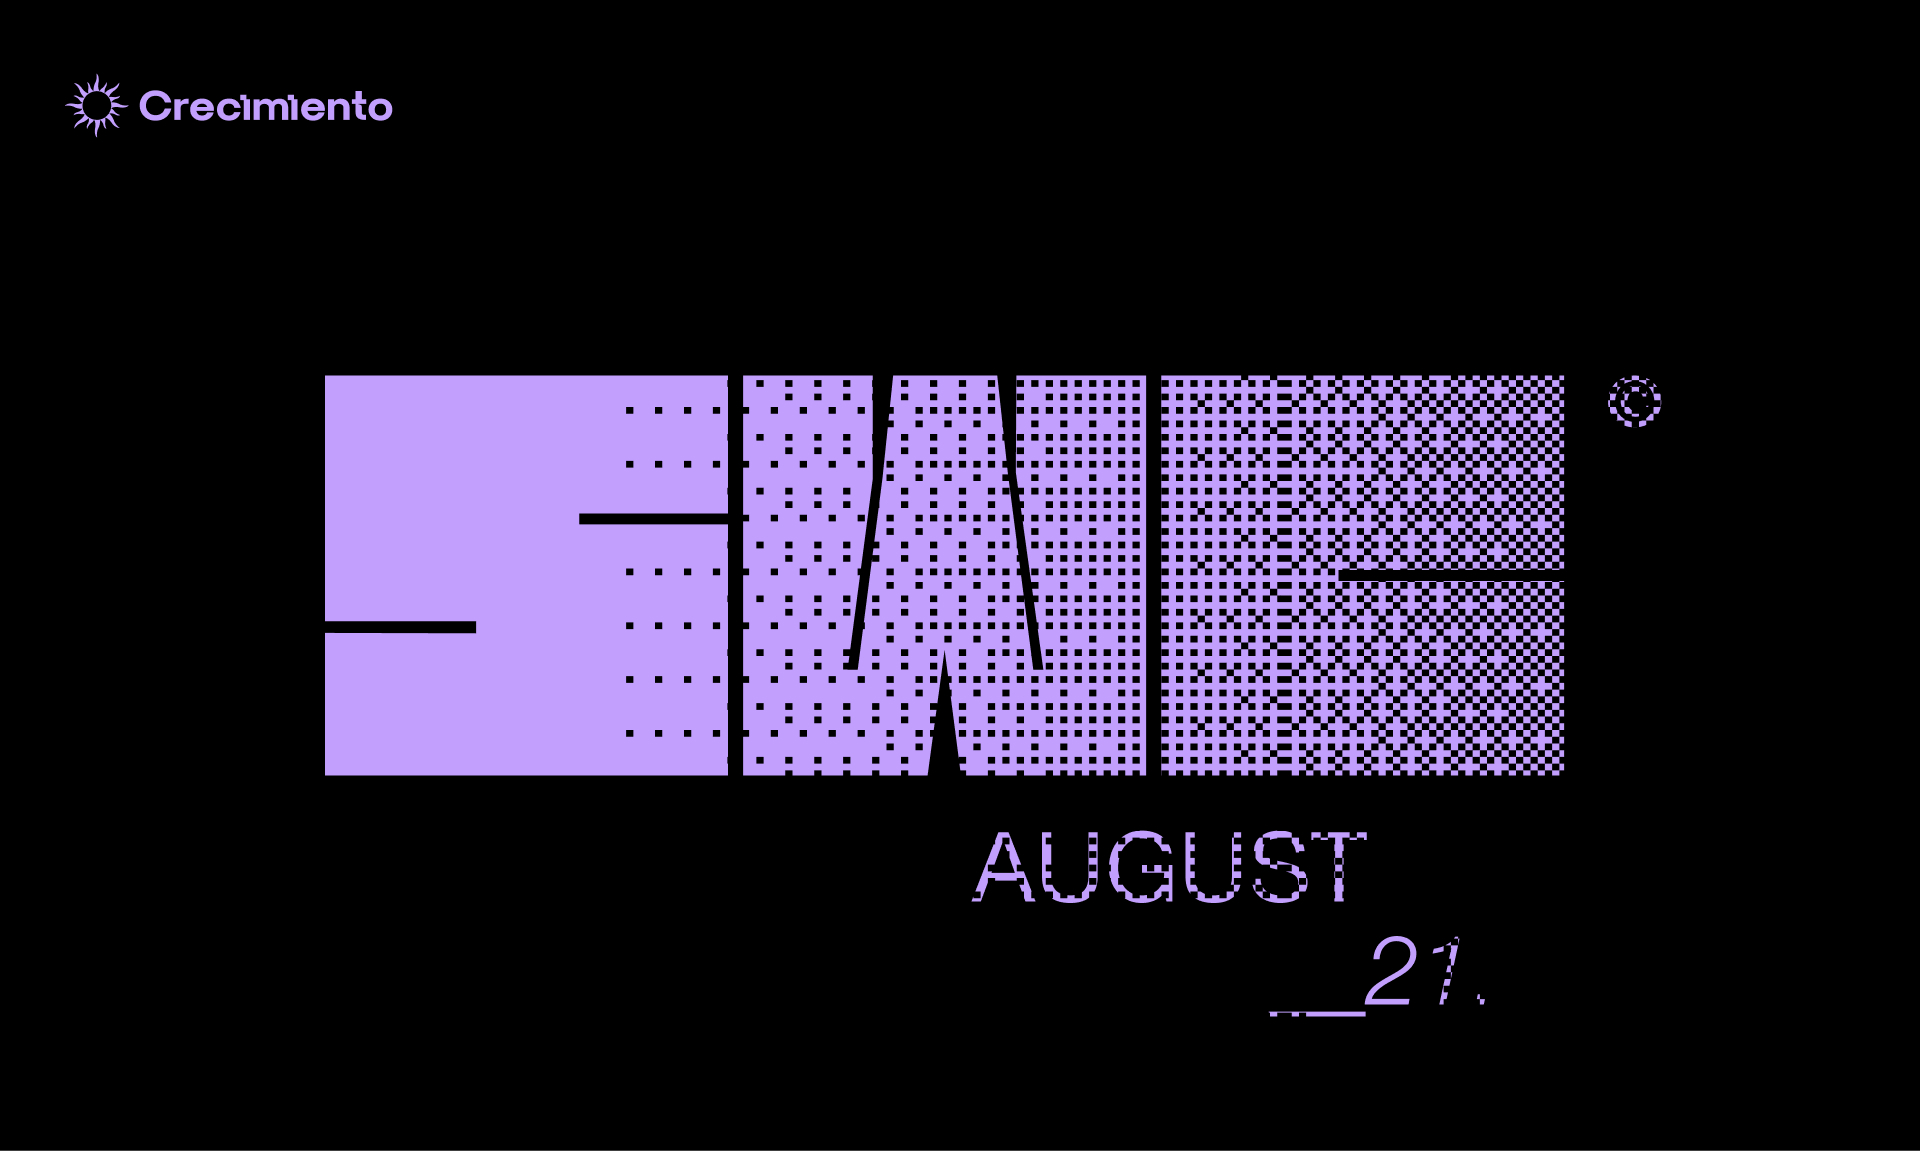
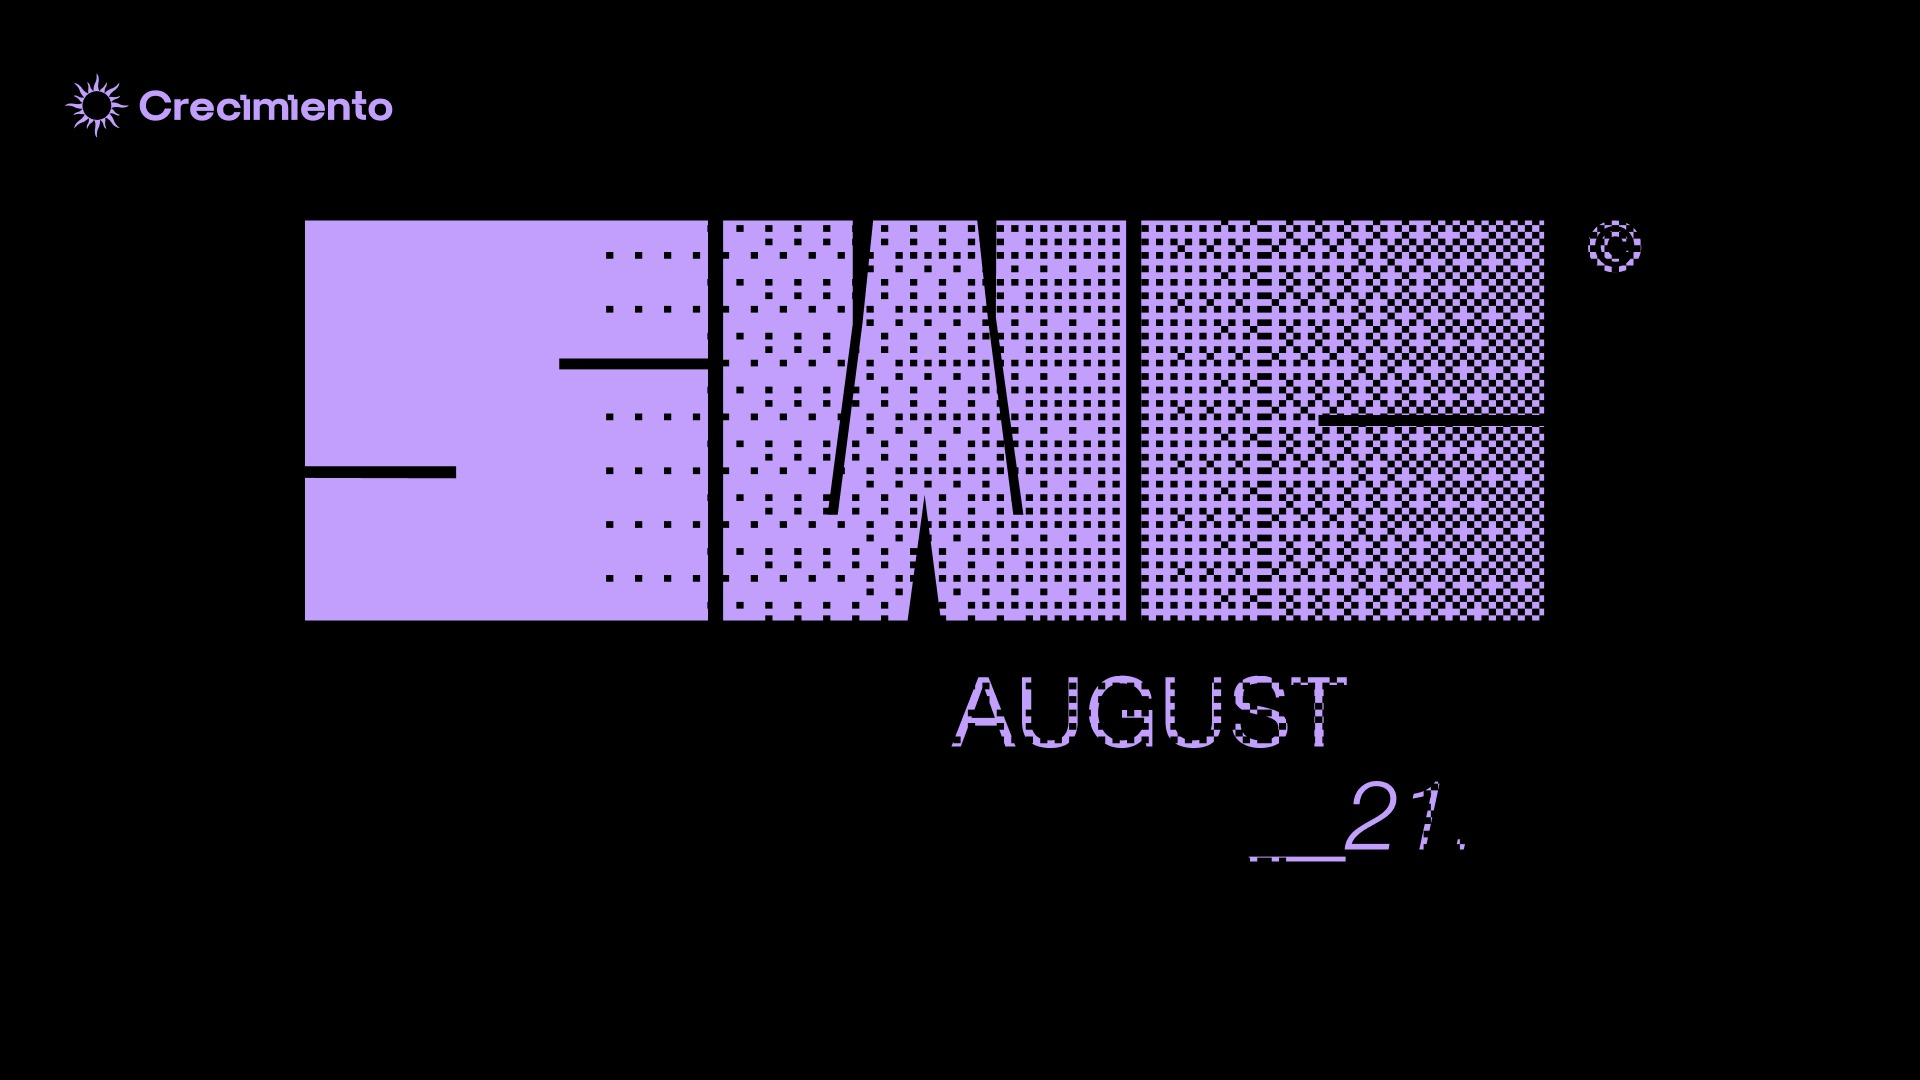
Cover SWC centrada + version en ingles del post

Changed region(s): [[0.1562, 0.1833, 0.875, 0.8556], [0.0312, 0.0611, 0.2188, 0.1222], [0.6562, 0.8556, 0.7188, 0.8861]]

diff --git a/content/blog/startup-world-cup-26-en.md b/content/blog/startup-world-cup-26-en.md
@@ -1,0 +1,29 @@
+---
+title: "Startup World Cup is back"
+lang: en
+date: 2026-07-29
+excerpt: "On August 21, at Aleph Hub in Buenos Aires, ten teams pitch in front of funds that invest in Argentina, right after the LATAM Digital Assets Conf closes. Applications are open until August 19."
+tag: Program
+cover: /images/blog/swc-26-cover.jpg
+draft: false
+---
+
+The Startup World Cup is Crecimiento's startup competition: the meeting point between startups and the funds and institutions of the ecosystem. This year it returns: on August 21, at Aleph Hub in Buenos Aires, ten teams present their projects in front of funds that invest in Argentina, right after the LATAM Digital Assets Conf closes.
+
+If you have something to show, this is your stage. Applications close on August 19.
+
+[button:Apply to the Startup World Cup](https://airtable.com/appGGpgjSlDjntK7k/pagEqB1tsgEI7hMRQ/form)
+
+## This edition's format
+
+Ten teams, a panel of investors, and questions after each pitch. The session is open to everyone attending the LATAM Digital Assets Conf, and the room stays open afterward for conversations between founders and investors.
+
+Held in November during Devconnect, the [first edition](/blog/startup-world-cup-en) gathered 219 startups from more than 40 countries. The 12 finalists pitched on the main stage of La Rural in front of a panel with representatives of funds like Pantera Capital, Dragonfly, Variant, Franklin Templeton and CoinFund. Peanut took the title.
+
+The Startup World Cup is the final stage of Crecimiento's builder funnel. Hackathons bring new projects in, Acceleration Seasons give teams structure and mentorship, and the Startup World Cup puts them in front of investors. You don't need to have gone through any other program first: applications are open to anyone with something to show.
+
+## Apply
+
+If you are building in Web3, biotech or artificial intelligence, apply. Applications close on August 19. The ten selected teams will be announced on August 20.
+
+[button:Apply to the Startup World Cup](https://airtable.com/appGGpgjSlDjntK7k/pagEqB1tsgEI7hMRQ/form)
